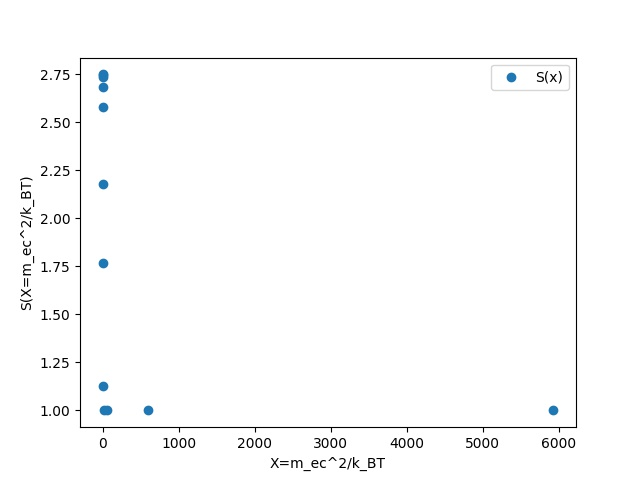
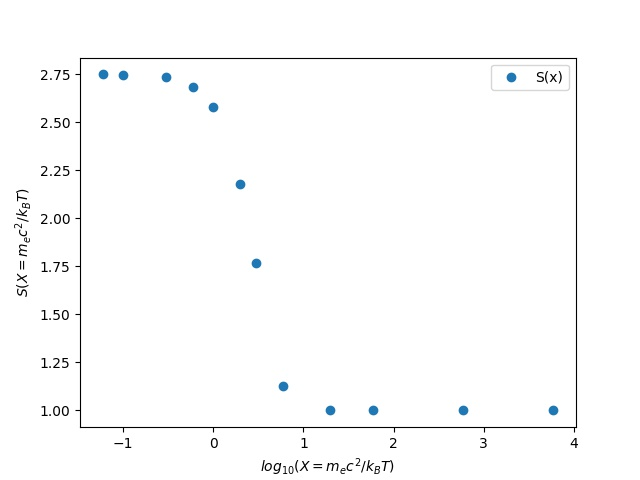
Changed the x axis scale to log10

diff --git a/Project2/CodeBase/code7.py b/Project2/CodeBase/code7.py
@@ -188,6 +188,7 @@ class TemperatureTable:
 
         self.t = self.t_vals(self.Temp)
 
+        print("                                     ")
         print("     T       T_n/T       t      ")
         print("-------------------------------------")
 
@@ -204,10 +205,10 @@ class TemperatureTable:
         """
         Plot S(x) and T_neutrino/T (T)
         """
-        plt.scatter(self.x(self.Temp), self.Splot, label="S(x)")
+        plt.scatter(np.log10(self.x(self.Temp)), self.Splot, label="S(x)")
         plt.legend()
-        plt.xlabel("X=m_ec^2/k_BT")
-        plt.ylabel("S(X=m_ec^2/k_BT)")
+        plt.xlabel(r"$log_{10}(X=m_ec^2/k_BT)$")
+        plt.ylabel(r"$S(X=m_ec^2/k_BT)$")
         plt.savefig("Images/s_x.jpeg")
         plt.show()
 
@@ -232,9 +233,9 @@ if __name__ == "__main__":
     anal_x0 = 1 + 45/(2*np.pi**4)*4/3*7*np.pi**4/120
 
     #Check model for x = 0 and x >> 1
-    print("For x = 0, model gives {} and analytical gives {}"\
+    print("For x = 0, model gives {:.3f} and analytical gives {:.3f}"\
           .format(calcis.S(0), anal_x0))
-    print("For x >> 1, model gives {} and analytical gives {}"\
+    print("For x >> 1, model gives {:.3f} and analytical gives {:.3f}"\
           .format(calcis.S(50), 1.))
 
     #Find values for T_neutrino and t(s)
